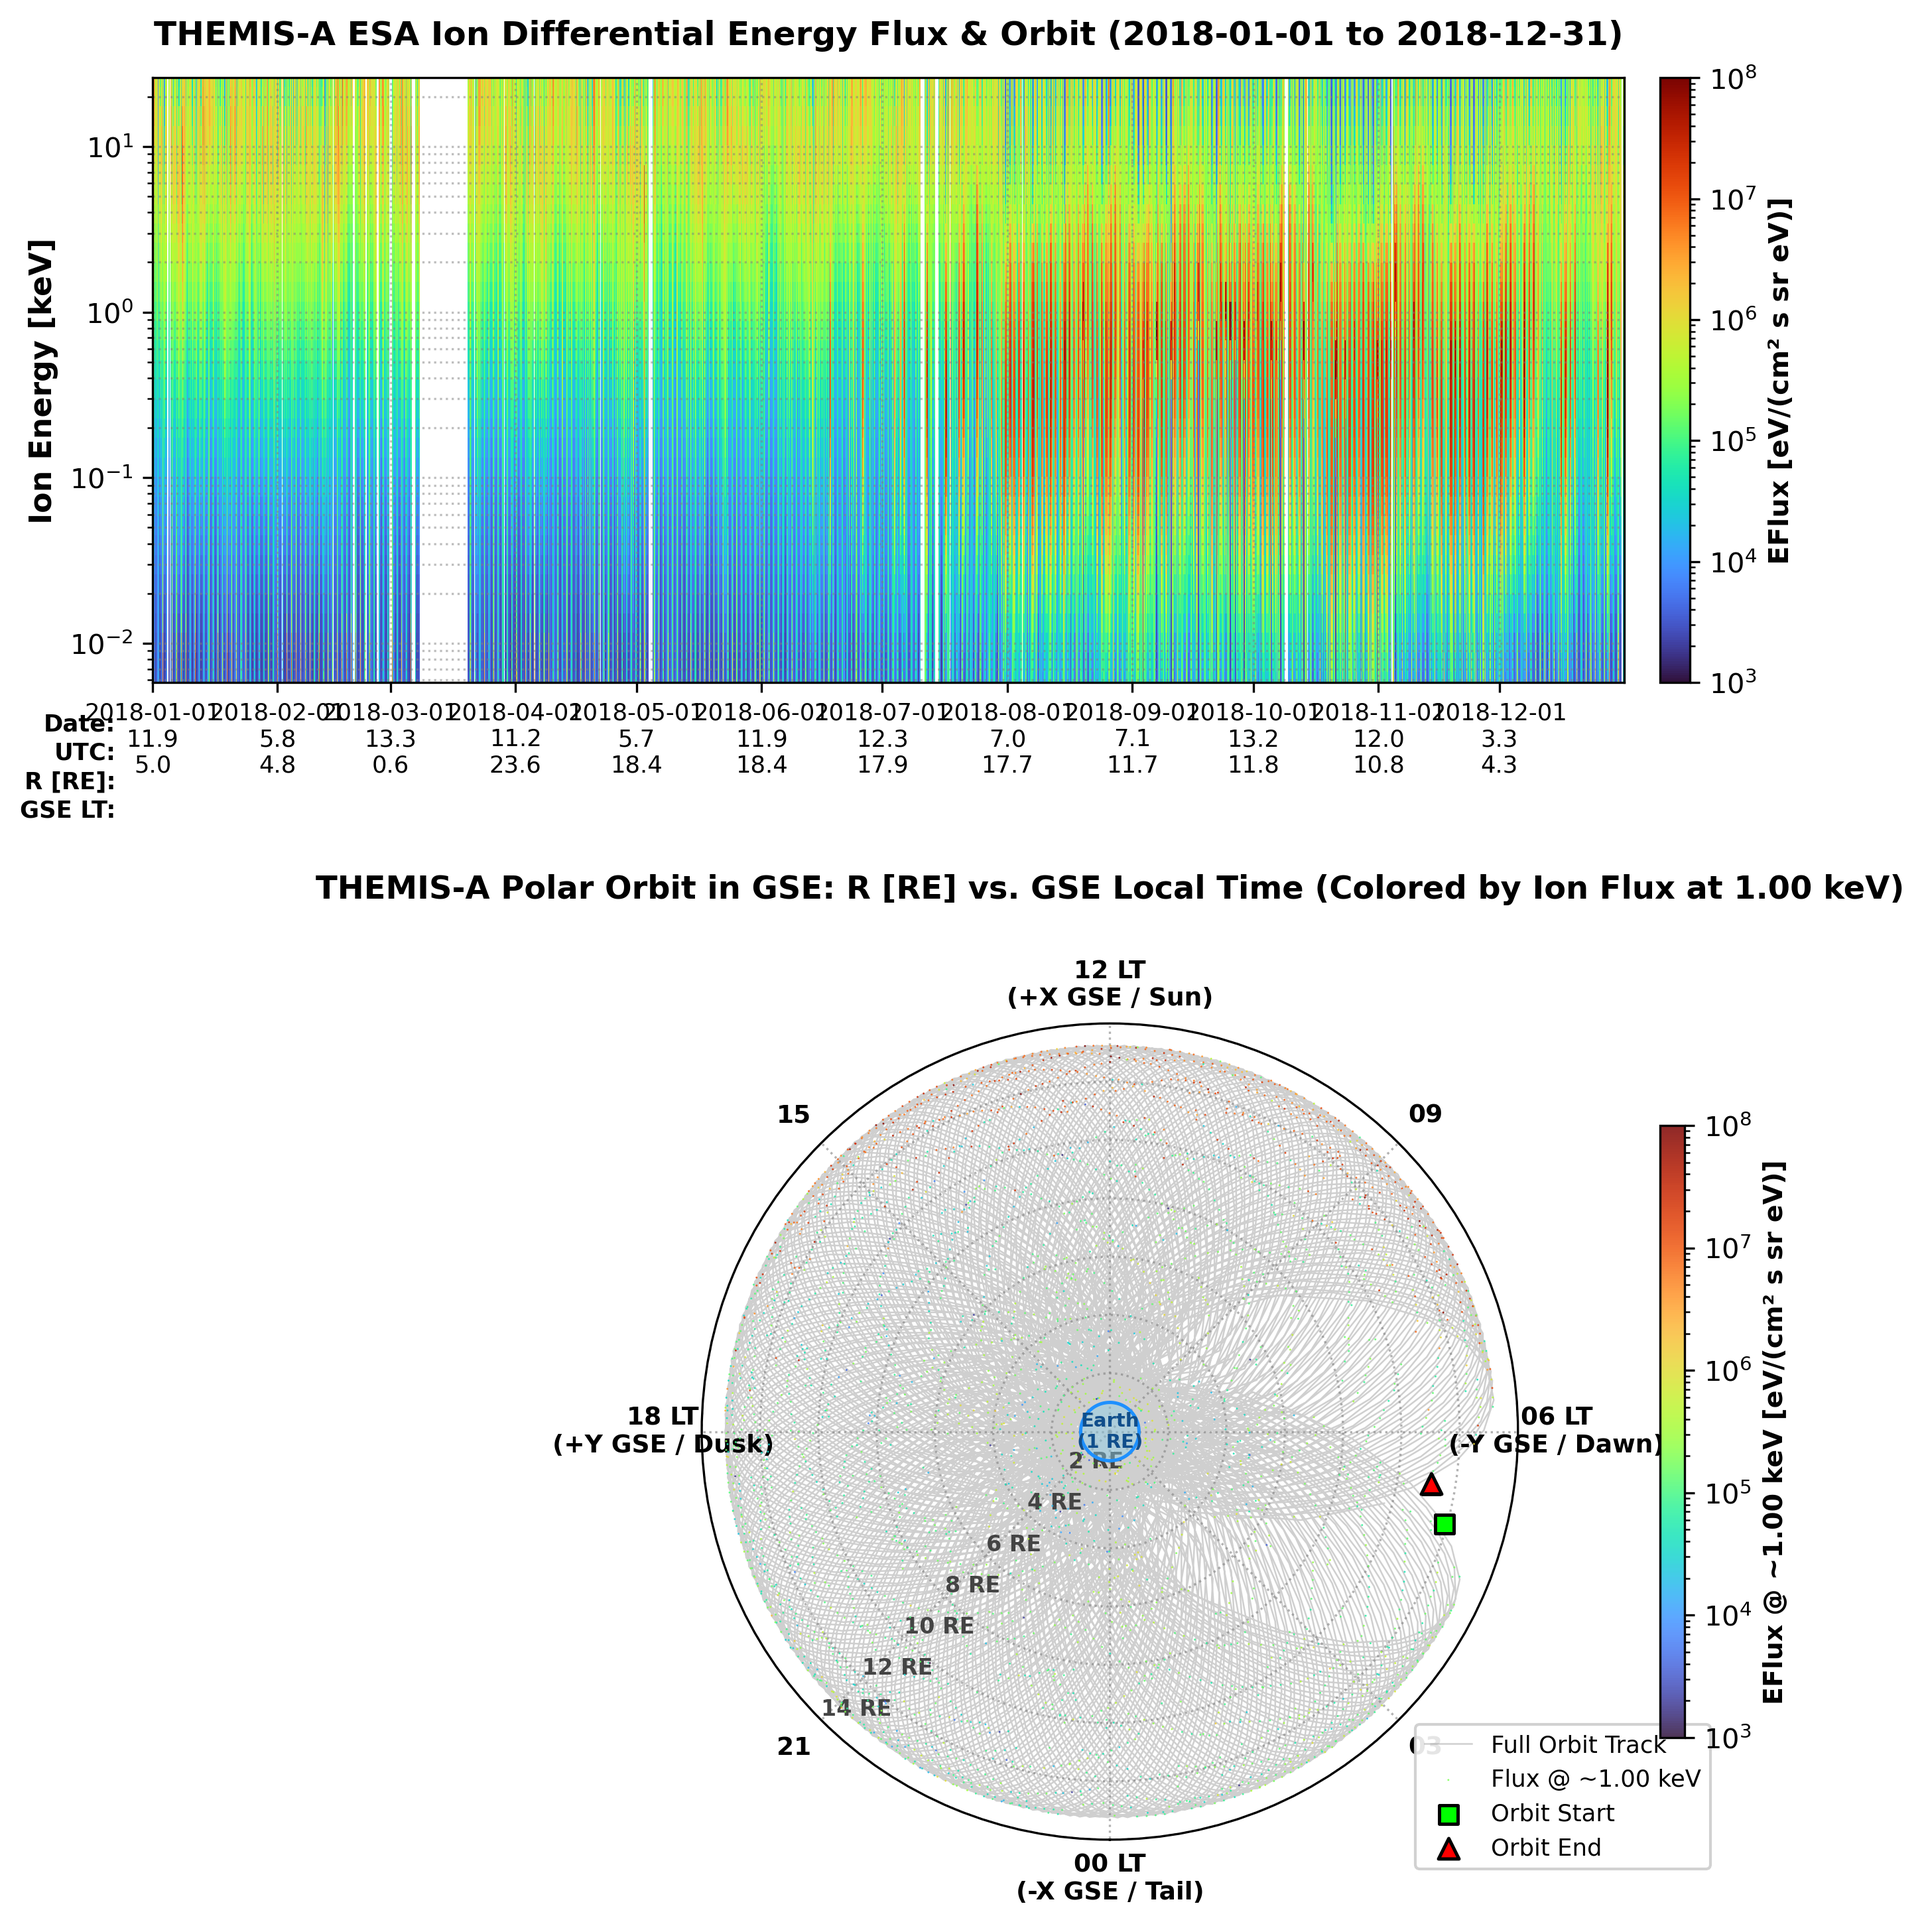
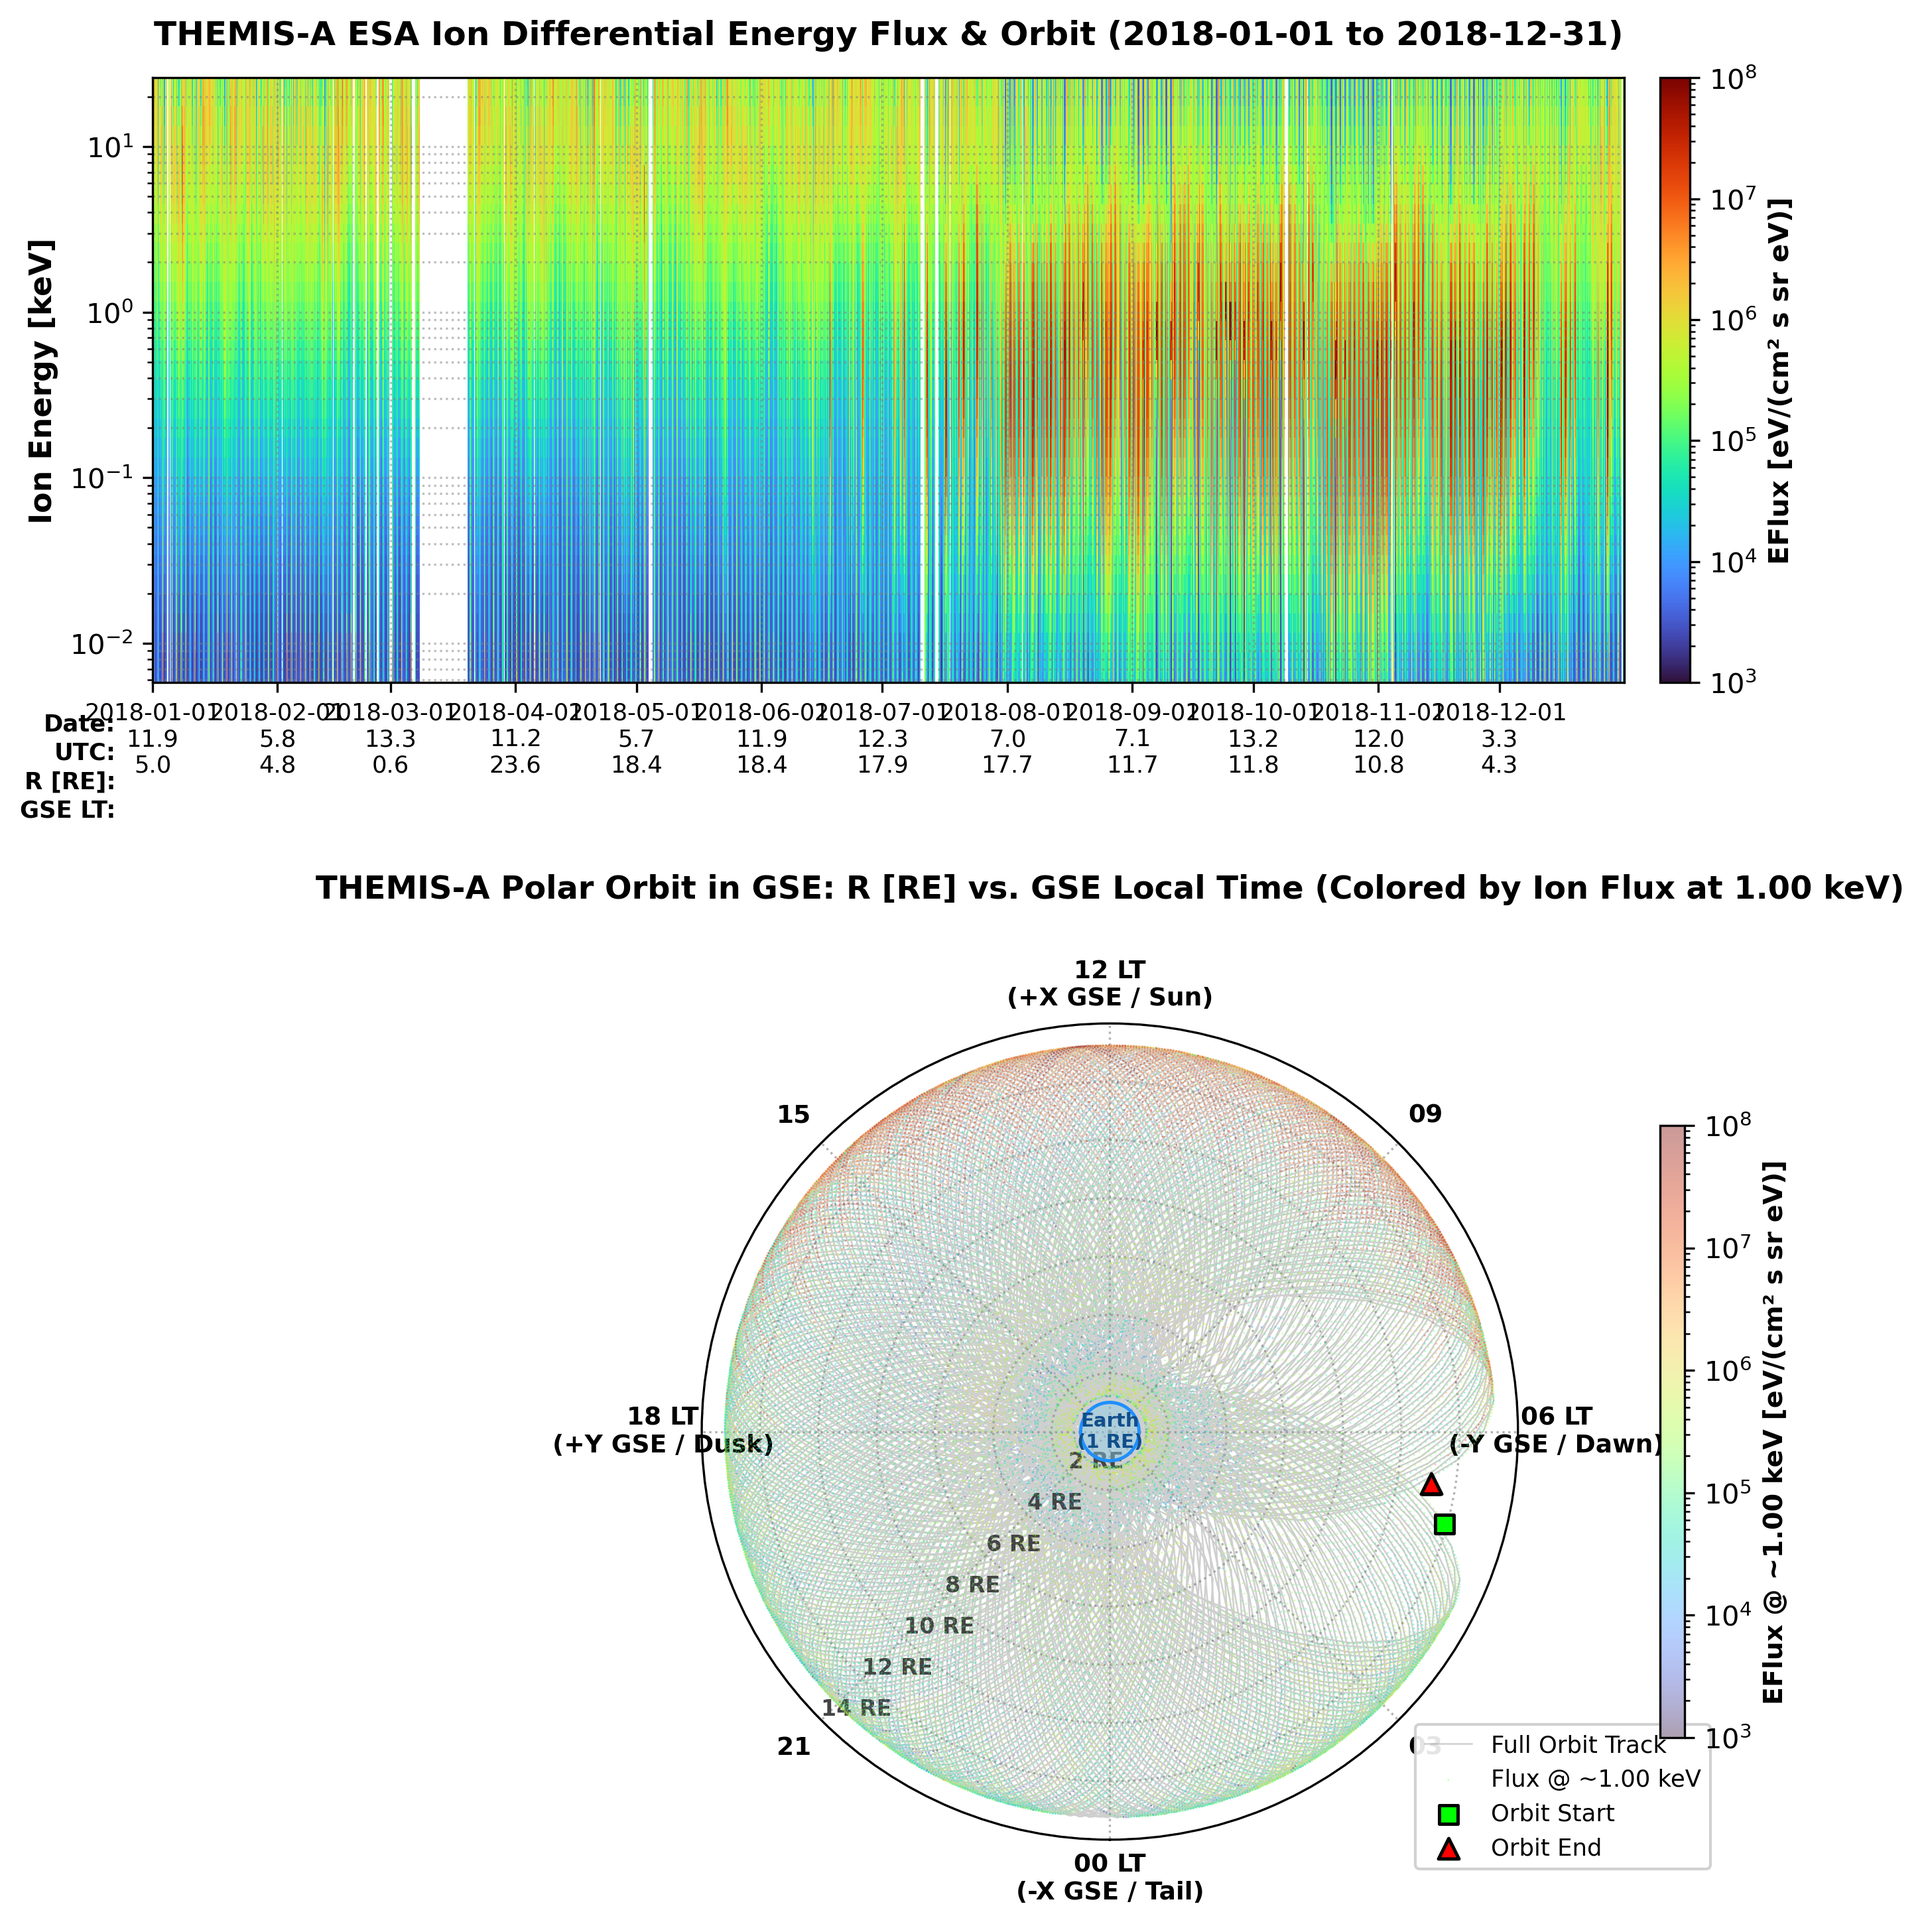
1

Changed region(s): [[0.3723, 0.5274, 0.7756, 0.9617], [0.8376, 0.5895, 0.8997, 0.8997]]

diff --git a/plot_themis_esa_proton_orbit.py b/plot_themis_esa_proton_orbit.py
@@ -574,7 +574,7 @@ def plot_themis_esa_and_orbit(data_dict,
                               noon_loc='top',
                               point_size=None,
                               step=None,
-                              max_orbit_points=3000,
+                              max_orbit_points=None,
                               output_path='themis_esa_ion_orbit.png',
                               dpi=300):
     """
@@ -616,10 +616,17 @@ def plot_themis_esa_and_orbit(data_dict,
     # Downsample Orbit Points for High-Performance Rendering (듬성듬성 그리기)
     # -------------------------------------------------------------------------
     n_total_pts = len(lt)
+    n_days = max(1.0, total_hours / 24.0)
+    if max_orbit_points is not None:
+        effective_max = max_orbit_points
+    else:
+        # Dynamically scale ~100 points/day (~100 pts/orbit), clamped between 3,000 and 45,000
+        effective_max = int(np.clip(n_days * 100, 3000, 45000))
+
     if step is not None and step > 1:
         stride = int(step)
-    elif max_orbit_points is not None and n_total_pts > max_orbit_points:
-        stride = int(np.ceil(n_total_pts / max_orbit_points))
+    elif n_total_pts > effective_max:
+        stride = int(np.ceil(n_total_pts / effective_max))
     else:
         stride = 1
 
@@ -822,9 +829,23 @@ def plot_themis_esa_and_orbit(data_dict,
     if point_size is not None:
         pt_size = point_size
     else:
-        pt_size = 4.0 if n_pts <= 2000 else (2.5 if n_pts <= 5000 else 1.2)
+        if n_pts <= 3000:
+            pt_size = 3.5
+        elif n_pts <= 10000:
+            pt_size = 2.0
+        elif n_pts <= 25000:
+            pt_size = 1.2
+        else:
+            pt_size = 0.6
 
-    pt_alpha = 0.85 if n_pts <= 3000 else 0.70
+    if n_pts <= 3000:
+        pt_alpha = 0.85
+    elif n_pts <= 15000:
+        pt_alpha = 0.70
+    elif n_pts <= 30000:
+        pt_alpha = 0.55
+    else:
+        pt_alpha = 0.40
 
     sc = ax2.scatter(theta, r_orbit, c=flux_slice, cmap=cmap, norm=norm,
                      s=pt_size, alpha=pt_alpha, edgecolors='none', zorder=3,
@@ -942,9 +963,9 @@ def main():
     parser.add_argument('--point-size', type=float, default=None,
                         help="Custom scatter point size for the polar orbit plot curve (e.g., 0.8, 1.2, 2.0).")
     parser.add_argument('--step', type=int, default=None,
-                        help="Step/stride to downsample orbit points (e.g. --step 5 draws every 5th point). Default: auto-downsamples to ~3000 points.")
-    parser.add_argument('--max-orbit-points', type=int, default=3000,
-                        help="Maximum points to render on polar orbit plot (default: 3000 for ultra-fast rendering).")
+                        help="Step/stride to downsample orbit points (e.g. --step 5 draws every 5th point). Default: auto-downsamples based on duration.")
+    parser.add_argument('--max-orbit-points', type=int, default=None,
+                        help="Maximum points to render on polar orbit plot (default: dynamic ~100 pts/day, 3000-45000).")
     parser.add_argument('--download', action='store_true',
                         help="Auto-download missing CDF files if not cached locally.")
     parser.add_argument('--data-dir', type=str, default=None,
@@ -965,13 +986,14 @@ def main():
     else:
         out_name = args.output
 
+    pts_str = f"{args.max_orbit_points}" if args.max_orbit_points is not None else "Dynamic (~100 pts/day, 3k-45k)"
     print("=" * 78)
     print(f"THEMIS-{probe.upper()} ESA Ion Spectrogram & Polar Orbit Trajectory Analysis")
     print(f"Time Range : {dt_start.strftime('%Y-%m-%d %H:%M:%S')} to {dt_end.strftime('%Y-%m-%d %H:%M:%S')}")
     print(f"Calendar Days : {len(calendar_dates)} day(s) -> {calendar_dates[0]} to {calendar_dates[-1]}")
     print(f"Coordinates: {args.coord.upper()} | Energy Slice: {args.energy:.2f} keV | ESA Mode: {args.mode}")
     print(f"Noon Axis  : {args.noon.capitalize()} | Output: {out_name}")
-    print(f"Fast Render: Orbit Points Max={args.max_orbit_points} | Step={args.step if args.step else 'Auto'}")
+    print(f"Fast Render: Orbit Points Max={pts_str} | Step={args.step if args.step else 'Auto'}")
     print("=" * 78)
 
     # 1. Rapidly discover local CDF files (or download if explicitly enabled)
